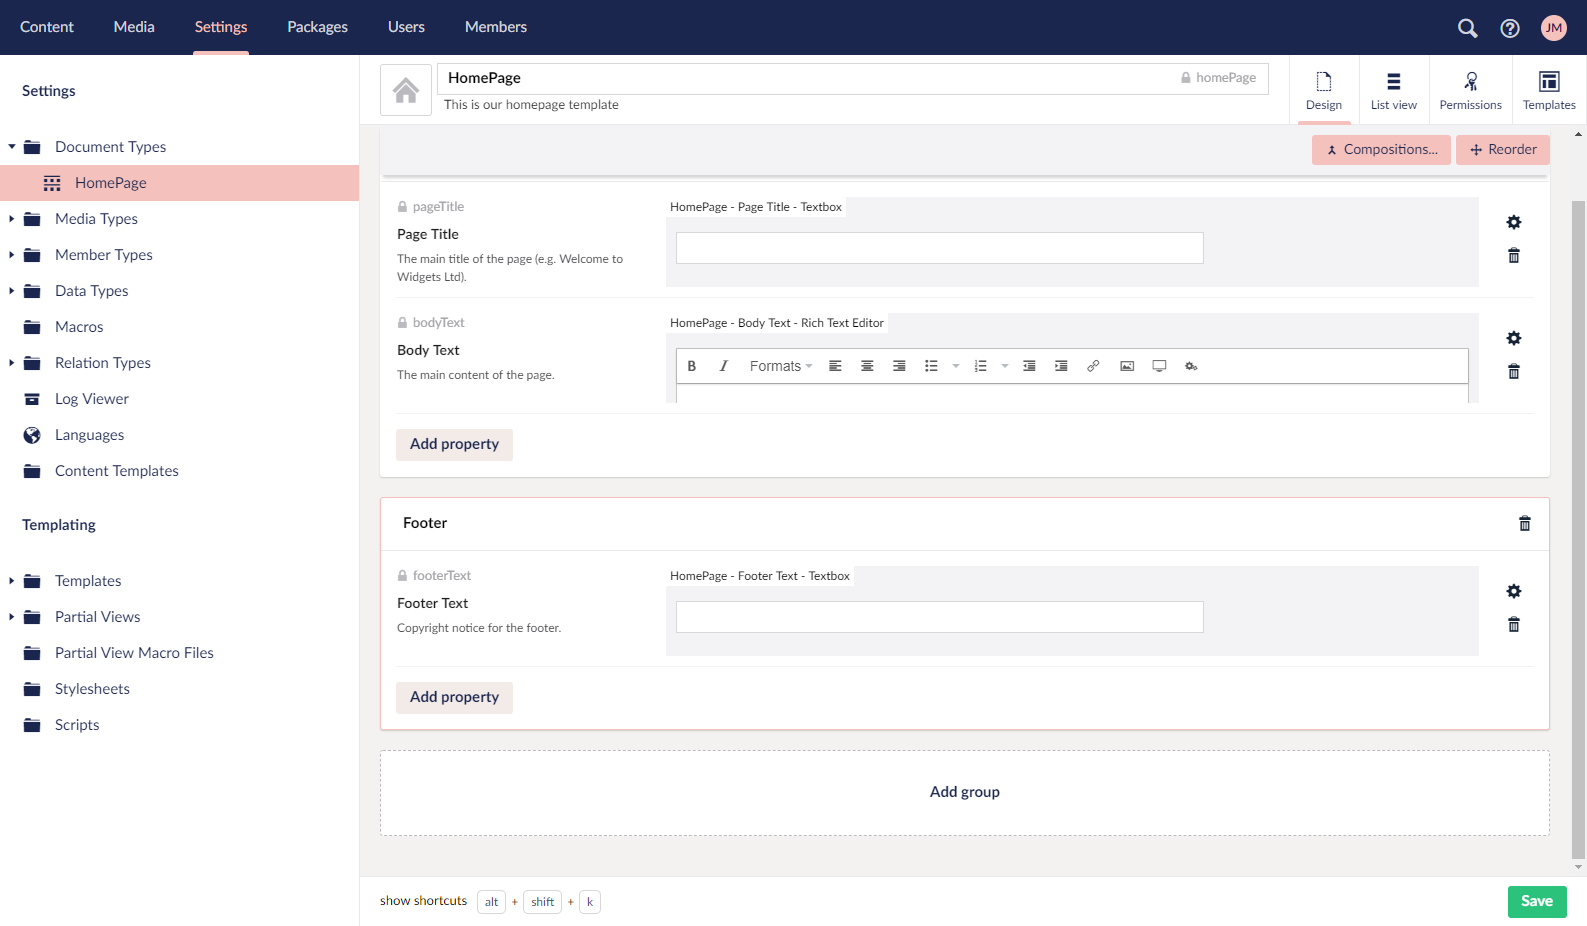
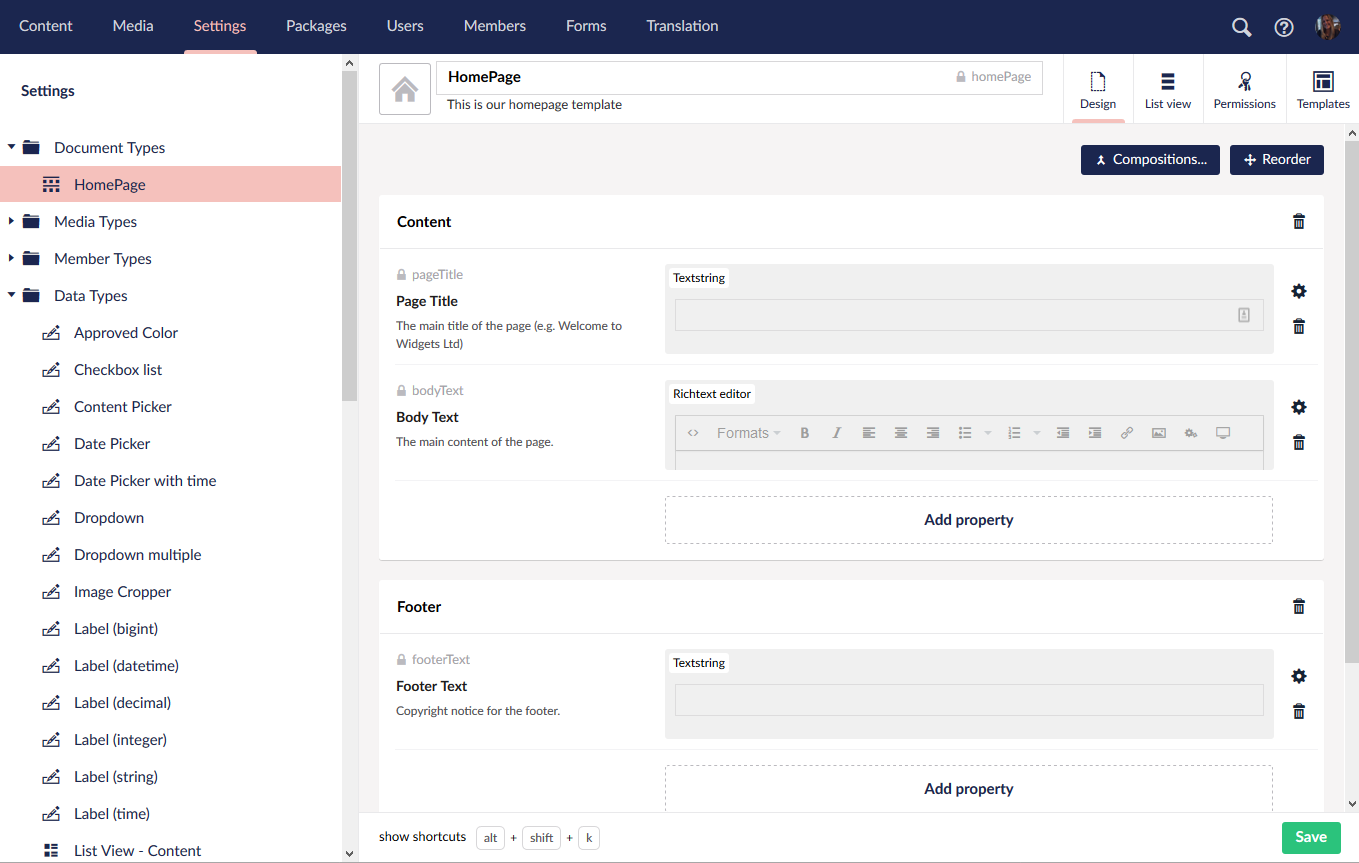
Remove reference to 'tabs', use existing data types not create new ones

diff --git a/Tutorials/Creating-Basic-Site/Document-Types/index.md b/Tutorials/Creating-Basic-Site/Document-Types/index.md
@@ -35,7 +35,7 @@ Enter "_HomePage_" as the [Name] of our new **_Document Type_** - you'll see tha
 
 Enter in the [Description] field "_This is our homepage template_".  This text is used to help the editors choose the correct **_Document Type_** when creating new **_Content Nodes_**.
 
-Click [Save] to store our new DocumentType.
+Click [Save] to store our new **_Document Type_**.
 
 ![Name your Document Type](images/figure-8-name-your-document-type-v8.png)
 
@@ -51,57 +51,57 @@ If none of your **_Document Types_** have the [Allow as root] checked, all of th
 
 ![Allow Homepage Document Type As Root](images/figure-9a-allow-document-type-as-root-v8.png)
 
-Next, we go back to the **_Design_** screen. Create a new group called "_Content_" (remembering to click [Save] after).
+Next, we go back to the **_Design_** screen. Create a new group called "_Content_".
 
-![Document Types - Adding Our First Content Tab](images/figure-10-document-types-adding-tabs-v8.png)
+![Document Types - Adding Our First Content Group](images/figure-10-document-types-adding-groups-v8.png)
 
-<!-- This needs to be reworked to use the reuse tab, creating a new data type for each property is bad practice! -->
-Now click on the [Add property] link – this is where we can create each of the necessary data containers in which the editors can enter the necessary content for the homepage.
-Enter the [Name] "_Page Title_". When you move to the next field you’ll see Umbraco helpfully gives you the alias "pageTitle".  Click the [Add editor] link and you'll see a long list of editors, select the "Textbox".
+Now click on the [Add property] link – this is where we can create the data containers in which the editors can enter the content for the homepage.
+Enter the [Name] "_Page Title_". When you move to the next field you’ll see Umbraco has automatically generated the **_Alias_** "pageTitle". 
+You should also enter a [Description]. This helps the editor to provide relevant content, so we'll fill this in "_The main title of the page (e.g. Welcome to Widgets Ltd)_".
 
-:::tip
-Remember to come back and explore this list of data types later - it's a hint to the power of Umbraco.
-:::
+![Creating our PageTitle Property](images/figure-11-creating-our-pagetitle-property-v8.png)
 
-![Selecting Textbox Data Type](images/figure-11a-selecting-textbox-data-type-v8.png)
+Now click the [Add editor] link, type "_text_" in the search box and select the existing editor for the "Textstring" **_Data Type_**.
 
-Umbraco will generate a long name for the Data type - ignore this for now and select [Submit].
-<!-- End of bad practice rework -->
-
-Now you can enter a [Description], again helps the editor provide relevant content so we'll fill this in "_The main title of the page (e.g. Welcome to Widgets Ltd)_".
-
-![Creating our PageTitle Data Type](images/figure-11-creating-our-pagetitle-data-type-v8.png)
+![Selecting Textstring data type](images/figure-11a-selecting-textstring-data-type-v8.png)
 
 Ignore the rest of the fields for now and click the green [Submit] button at the bottom right.
 
-Repeat this step, clicking the [Add property] at the bottom of the [Content] group and create the following properties:
+:::tip
+Remember to come back and explore the list of **_Data Types_** later - it's a hint to the power of Umbraco.
+:::
+
+Repeat this step to add two more properties:
 
 <table border="0">
 <col width="130">
 <col width="400">
 <tr><th>Name</th><th>Body Text</th></tr>
+<tr><td>Group:</td><td>Content</td></tr>
 <tr><td>Alias:</td><td>bodyText</td></tr>
-<tr><td>Type:</td><td>Richtext editor (use the search to help you find this, leave all the options as default and click Submit)</td></tr>
-<tr><td>Tab:</td><td>Content</td></tr>
 <tr><td>Description:</td><td>The main content of the page.</td></tr>
+<tr><td>Data Type:</td><td>Richtext editor (use the search to find this existing editor)</td></tr>
 </table>
 
 <table border="0">
 <col width="130">
 <col width="400">
 <tr><th>Name</th><th>Footer Text</th></tr>
+<tr><td>Group:</td><td>Footer (you'll have to add this group first!)</td></tr>
 <tr><td>Alias:</td><td>footerText</td></tr>
-<tr><td>Type:</td><td>Textbox</td></tr>
-<tr><td>Tab:</td><td>Footer (remember to add this!)</td></tr>
 <tr><td>Description:</td><td>Copyright notice for the footer.</td></tr>
+<tr><td>Data Type:</td><td>Textstring</td></tr>
 </table>
 
 :::tip
 Use the [Add group] link to create a new group called Footer for the Footer Text.
 :::
+
 You should now have a **_Document Type_** that looks like this:
 
 ![Homepage Document Type with Properties](images/figure-12-homepage-document-type-with-properties-v8.png)
+
+Remember to click [Save].
 
 We’ve now created our first **_Document Type_** – Umbraco needs three things to create a webpage and this is the first and most important. It takes the data inside an instance of the **_Document Type_** (aka a **_Content Node_**) and merges it with a **_Template_** – we’ll create our template next.
 
